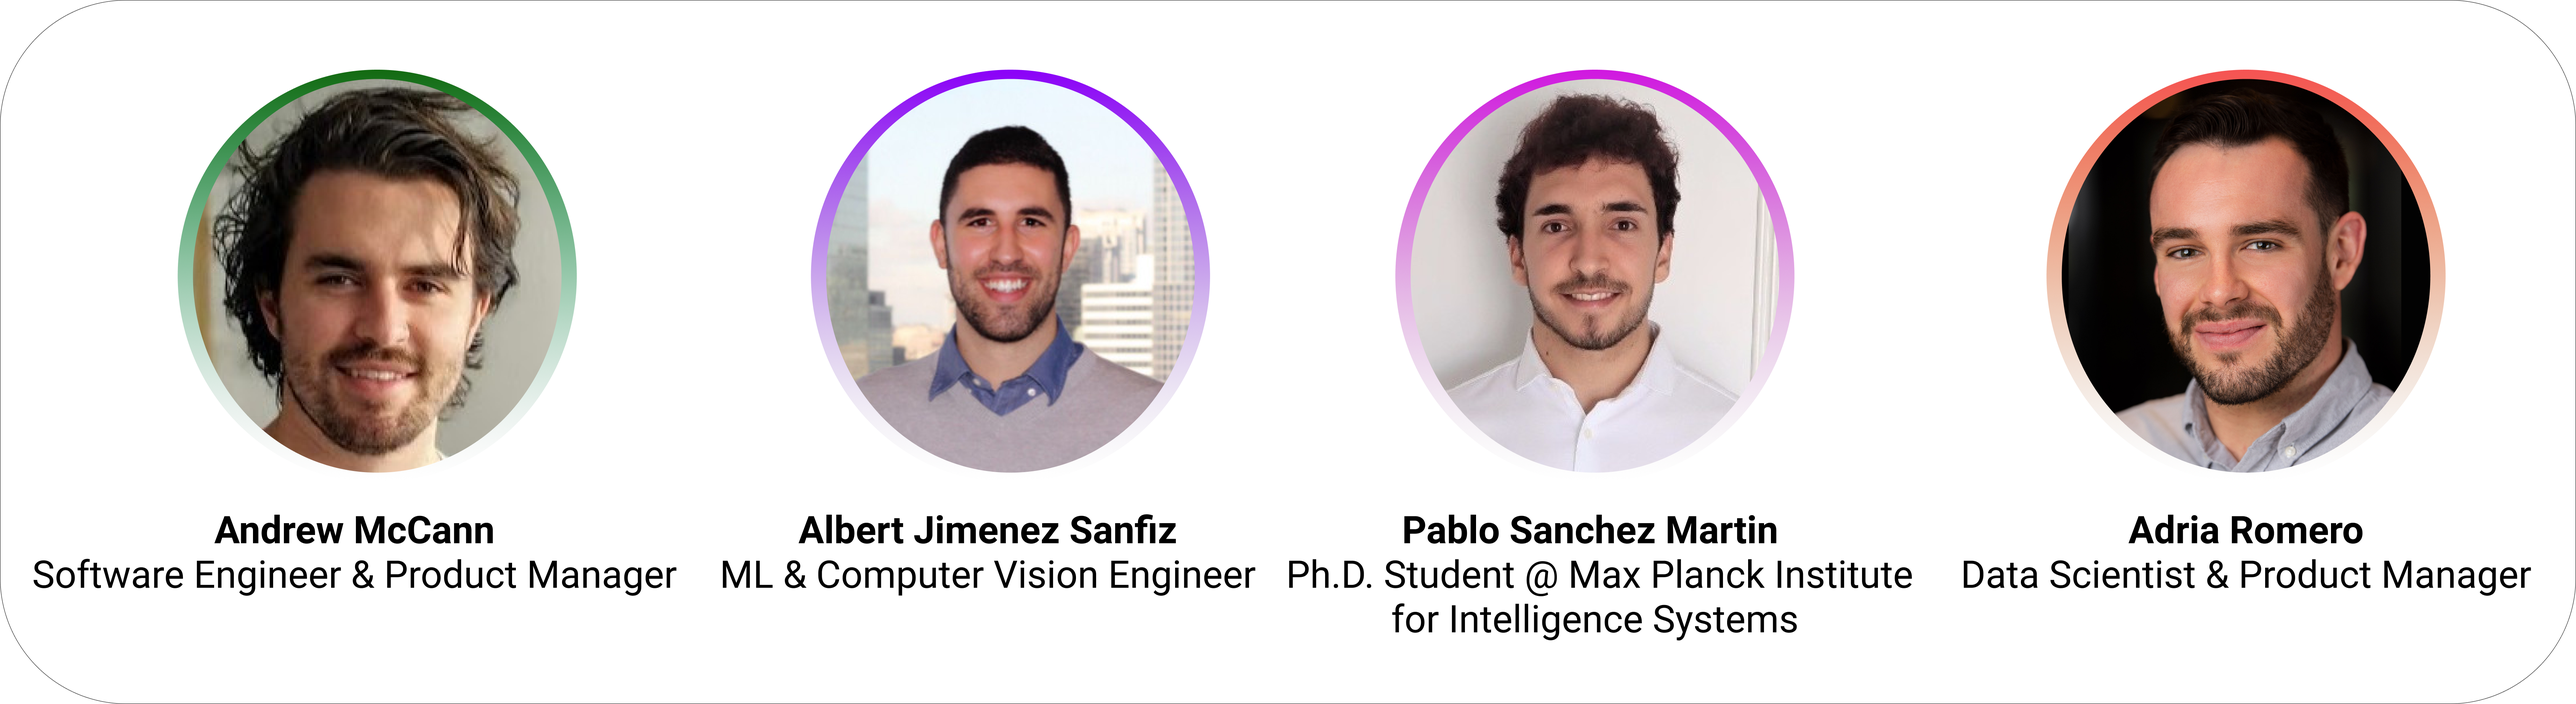
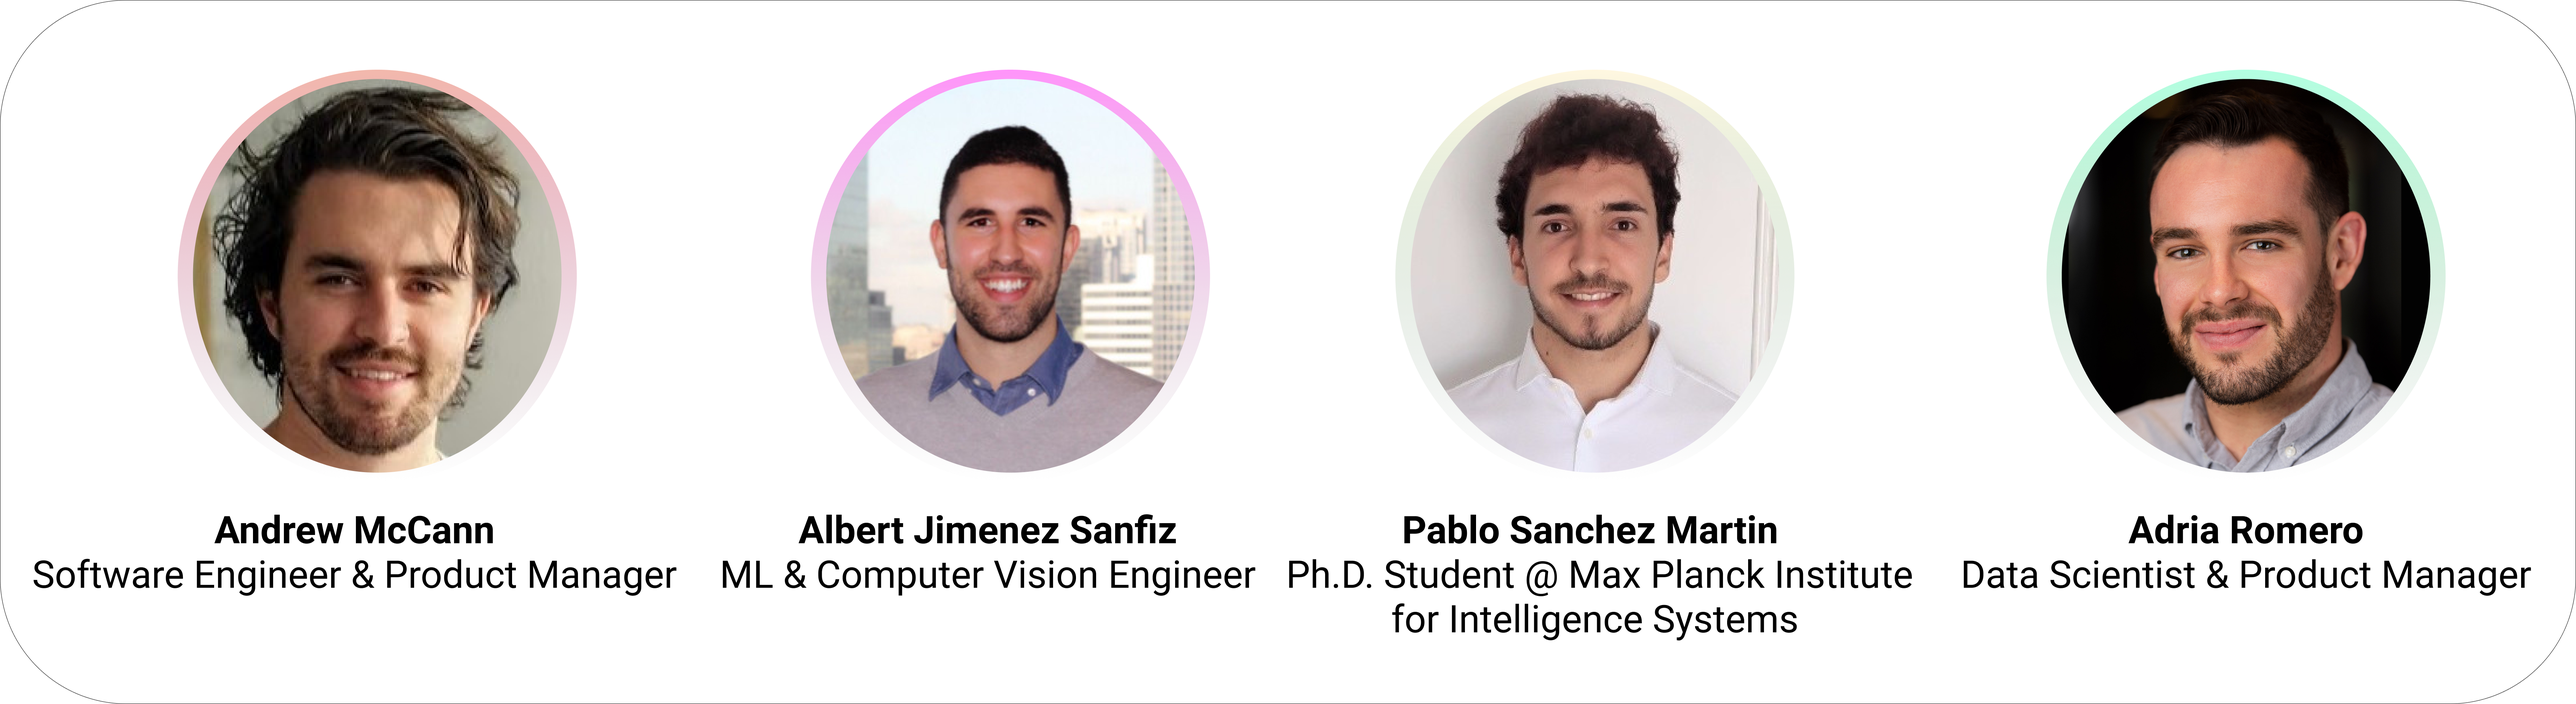
GitBook: [master] one page and 4 assets modified

diff --git a/README.md b/README.md
@@ -12,7 +12,7 @@ description: >-
 
 The course will start diving into the fundamentals around the **Machine Learning** algorithms, from the supervised and unsupervised learning strategies to the latest advances in deep learning techniques; followed by some recommended ways of **accessing and managing data**. Tips and best practices when **training and evaluating models** will be provided. And last but not least, the core piece of this course: how to **bring it to production** and make an outstanding product out of it! 
 
-![](.gitbook/assets/course-lectures.png)
+![](.gitbook/assets/course-lectures%20%281%29.png)
 
 ## Why Productize ML?
 
@@ -21,7 +21,7 @@ The course will start diving into the fundamentals around the **Machine Learning
 * **Manage your time** to go through the course material at your own pace.
 * **Practice** with real-world examples built by industry experts.
 
-![](.gitbook/assets/intro-menu.png)
+![](.gitbook/assets/intro.png)
 
 For more information on how to start this course, please read the course's[ ](https://productize.ml/Objectives-2abf4db47bb745748f745efa276e5b85)\*\*\*\*[**Objectives**](introduction/objectives.md) and[ ](https://productize.ml/Guidelines-44840ce96a424e4390a6856878b65d59)\*\*\*\*[**Guidelines**](introduction/guidelines.md). 
 
@@ -33,7 +33,7 @@ This is a **constantly growing and expanding** course, meaning that some section
 
 ## Instructors
 
-![](.gitbook/assets/team.png)
+![](.gitbook/assets/team%20%281%29.png)
 
 ## Course Lectures
 
@@ -95,7 +95,9 @@ This is a **constantly growing and expanding** course, meaning that some section
 
 ## Newsletter
 
-{% embed url="https://form.typeform.com/to/V4BDqjYA" %}
+{% embed url="https://adria756514.typeform.com/to/V4BDqjYA" %}
+
+
 
 **Have a question or suggestion?** You can reach us at [`adria@productize.ml`](mailto:adria@productize.ml) .
 
